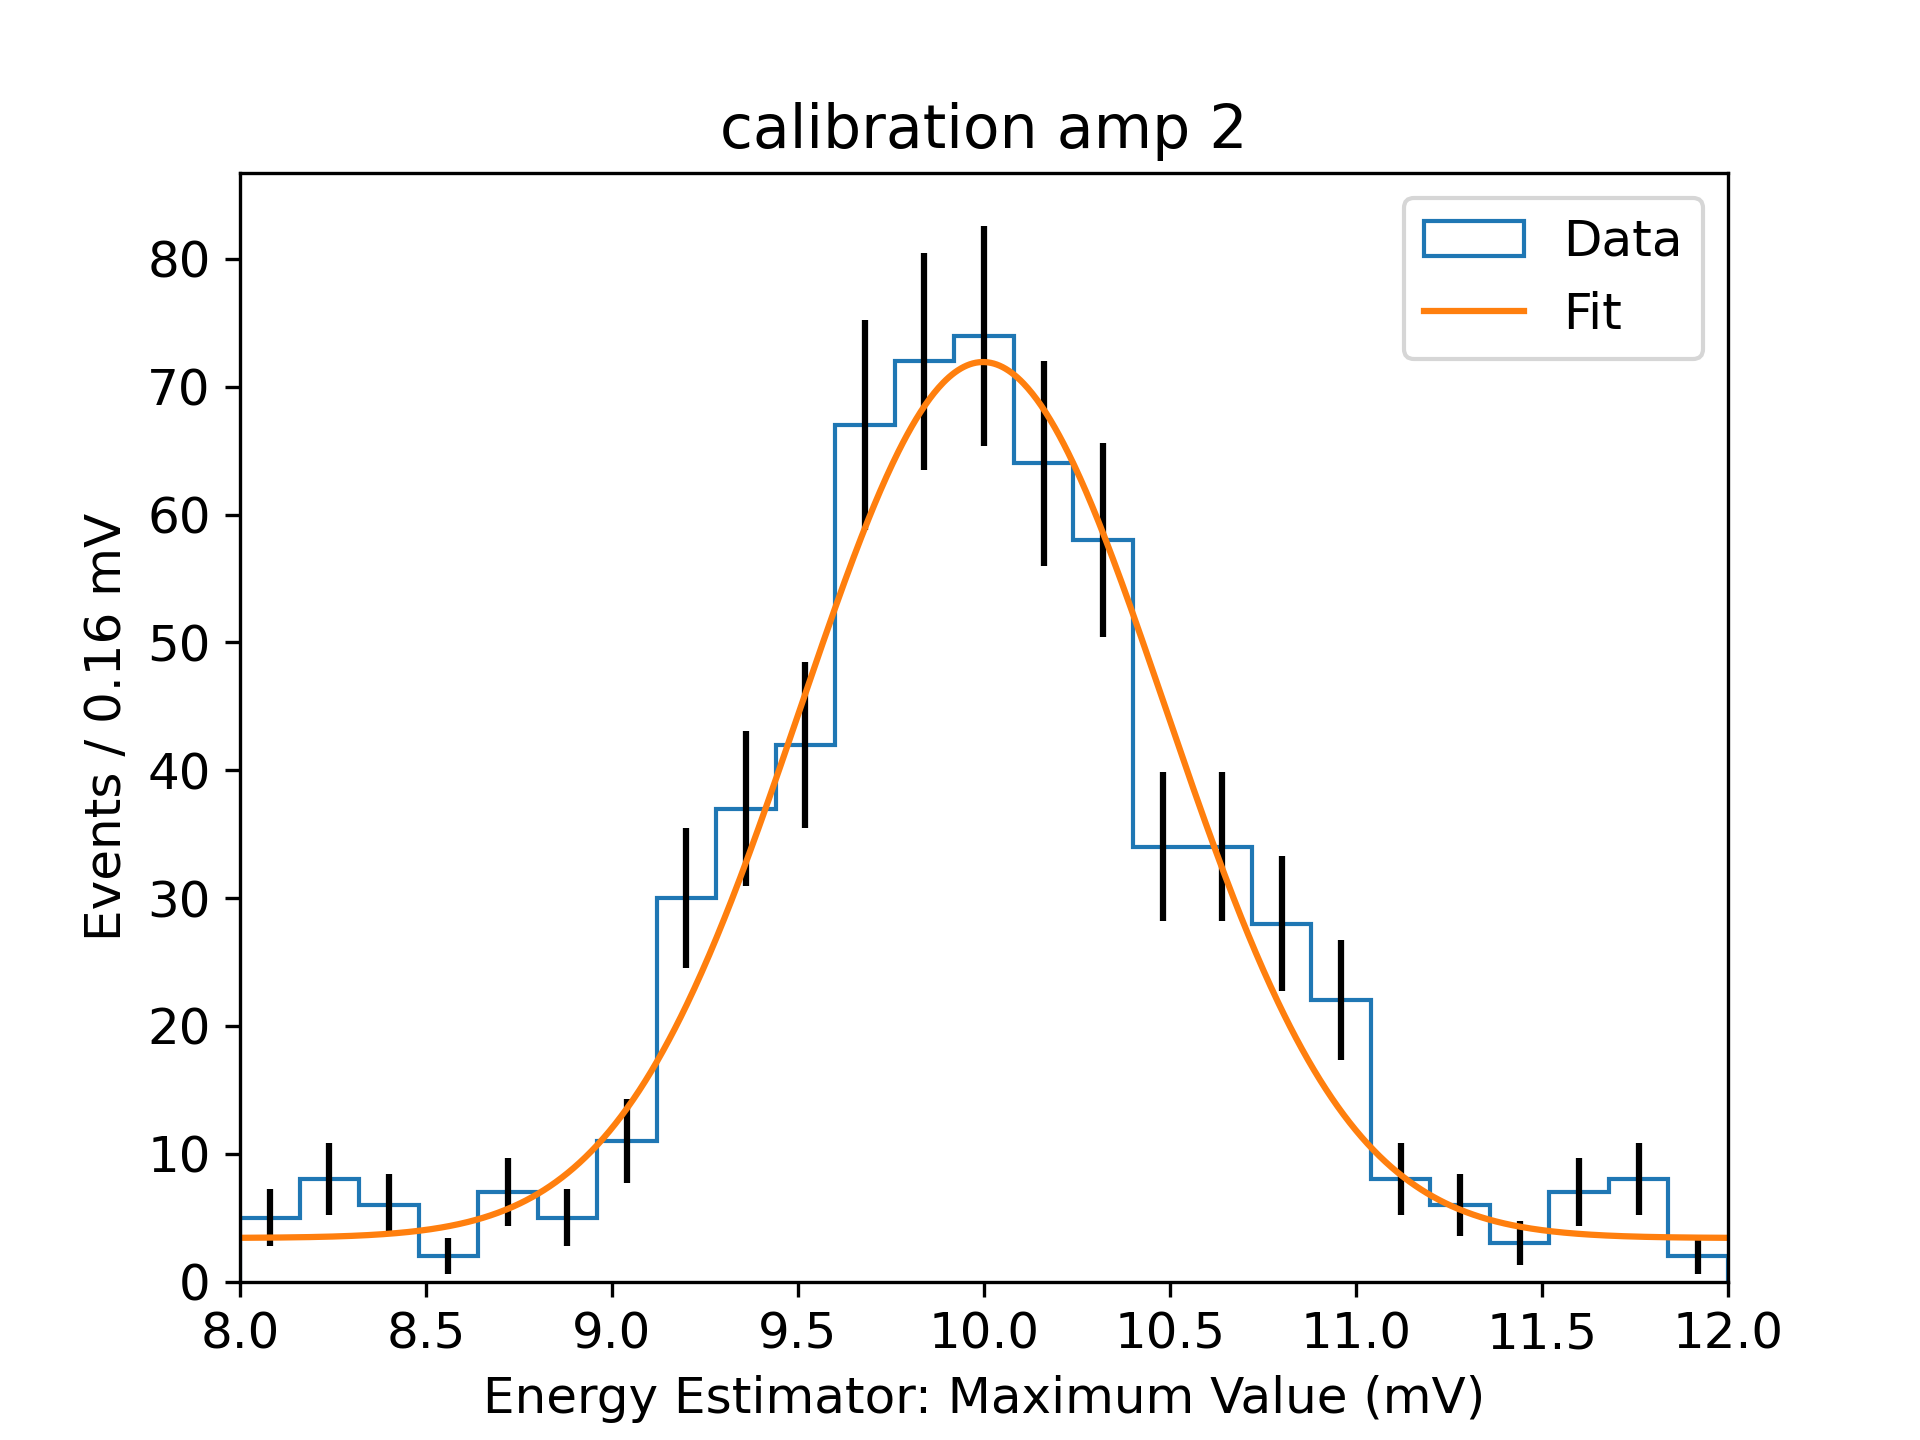
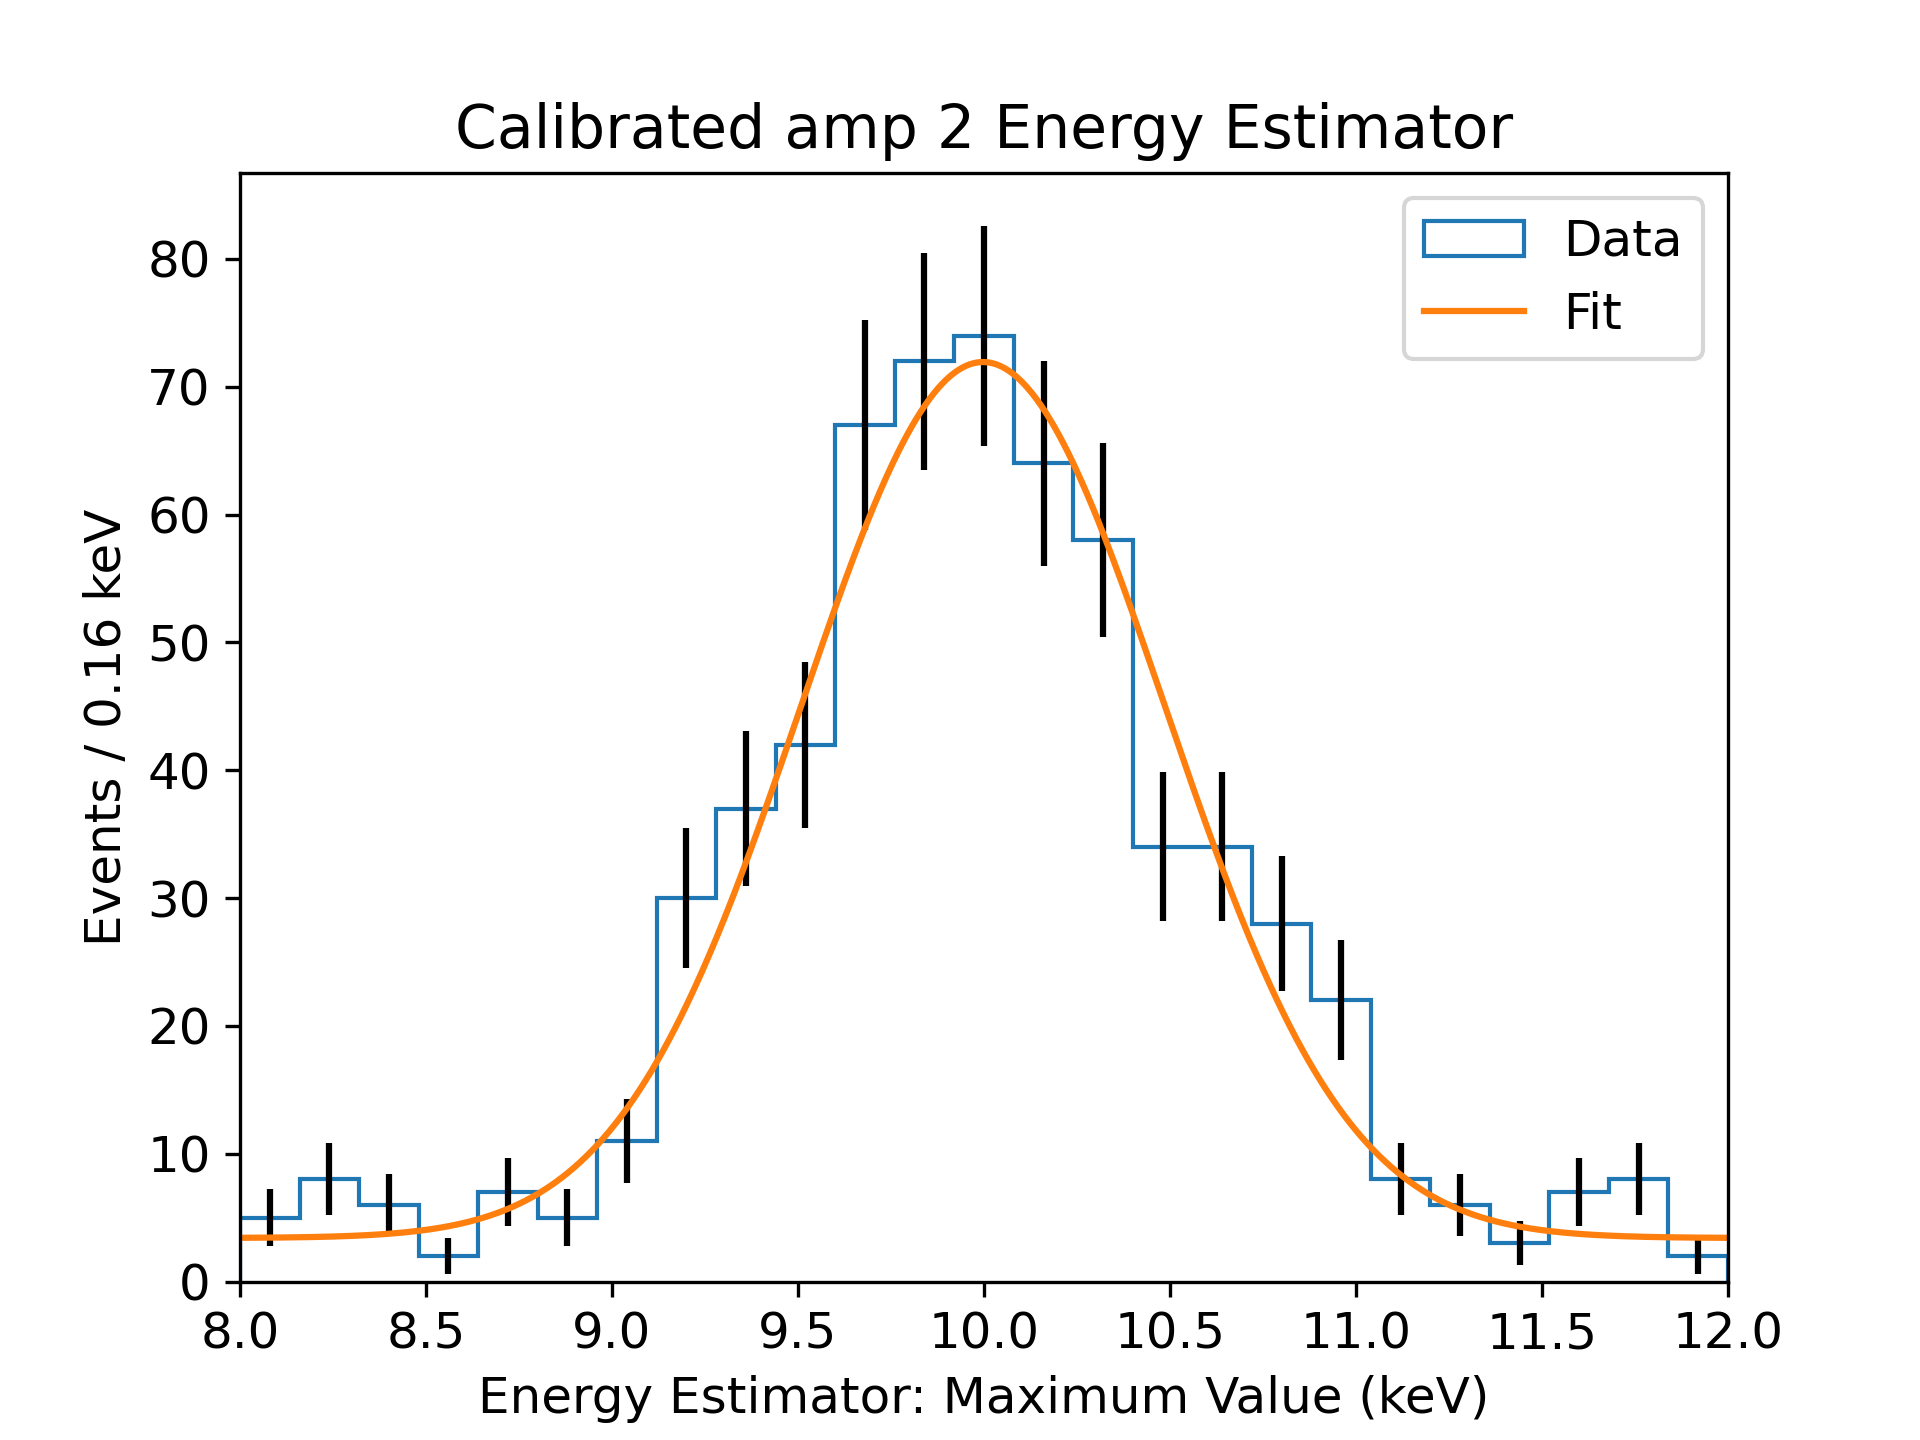
update

Changed region(s): [[0.25, 0.9375, 0.7812, 1.0], [0.25, 0.0625, 0.7812, 0.125], [0.0312, 0.3438, 0.0625, 0.6562]]

diff --git a/Data Analysis Assignment/Data_Analysis_Main.py b/Data Analysis Assignment/Data_Analysis_Main.py
@@ -102,7 +102,7 @@ def plotting(num_bins1, bin_range1, amps, p, title):
                                  histtype='step', label='Data')
     # This plots the histogram AND saves the counts and bin_edges for later use
 
-    plt.xlabel('Energy Estimator: Maximum Value (mV)')
+    plt.xlabel('Maximum Value (mV)')
     plt.ylabel('Events / %2.2f mV' % ((bin_range1[-1] - bin_range1[0]) / num_bins1));
     plt.xlim(bin_range1)
     # If the legend covers some data, increase the plt.xlim value, maybe (0,0.5)
@@ -146,7 +146,7 @@ def plotting(num_bins1, bin_range1, amps, p, title):
 
     fontsize = 12
     plt.plot(x_bestfit1, y_bestfit1, label='Fit')
-    plt.title('original '+ title)
+    plt.title('original '+ title + ' Amplitude Estimator')
     # plt.text(0.01, 140, r'$\mu$ = %3.2f mV'%(popt1[1]), fontsize=fontsize)
     # plt.text(0.01, 120, r'$\sigma$ = %3.2f mV'%(popt1[2]), fontsize=fontsize)
     # plt.text(0.01, 100, r'$\chi^2$/DOF=', fontsize=fontsize)
@@ -193,7 +193,7 @@ p_4=(100,50,150,0)        # myGauss(x, A, mean, width, base)
 num_bins_5=80
 bin_range_5=(-50, 80)
 p_5=(300,21,50,0)        # myGauss(x, A, mean, width, base)
-conv_5 = plotting(num_bins_5, bin_range_5, area3, p_5, 'amp 5')
+# conv_5 = plotting(num_bins_5, bin_range_5, area3, p_5, 'amp 5')
 
 # graph 6
 num_bins_6=80
@@ -229,7 +229,7 @@ def plotting_with_calibration(popt1, num_bins1, bin_range1, amps, p, title, coun
                                  histtype='step', label='Data')
     # This plots the histogram AND saves the counts and bin_edges for later use
 
-    plt.xlabel('Energy Estimator: Maximum Value (mV)')
+    plt.xlabel('Energy Estimator: Maximum Value (keV)')
     plt.ylabel('Events / %2.2f keV' % ((bin_range1[-1] - bin_range1[0]) / num_bins1));
     plt.xlim(bin_range1)
     # If the legend covers some data, increase the plt.xlim value, maybe (0,0.5)
@@ -273,7 +273,7 @@ def plotting_with_calibration(popt1, num_bins1, bin_range1, amps, p, title, coun
 
     fontsize = 12
     plt.plot(x_bestfit1, y_bestfit1, label='Fit')
-    plt.title('calibration ' + title)
+    plt.title('Calibrated ' + title + ' Energy Estimator')
     # plt.text(0.01, 140, r'$\mu$ = %3.2f mV'%(popt1[1]), fontsize=fontsize)
     # plt.text(0.01, 120, r'$\sigma$ = %3.2f mV'%(popt1[2]), fontsize=fontsize)
     # plt.text(0.01, 100, r'$\chi^2$/DOF=', fontsize=fontsize)
@@ -314,9 +314,9 @@ p_2_c=(50, 10, 2, 5)        # myGauss(x, A, mean, width, base)
 #                           num_bins_2_c, bin_range_2_c, amp2, p_2_c, 'amp 2', 2)
 
 # graph 3
-num_bins_3=35
-bin_range_3=(-50, 50)
-p_3=(120,0,40,0)        # myGauss(x, A, mean, width, base)
+num_bins_3=30
+bin_range_3=(-30, 30)
+p_3=(40, 17, 10,0)        # myGauss(x, A, mean, width, base)
 num_bins_3_c=50
 bin_range_3_c=(-200, 200)
 p_3_c=(1, 10, 20, 0)        # myGauss(x, A, mean, width, base)
@@ -329,9 +329,9 @@ bin_range_4=(-200, 200)
 p_4=(100,50,150,0)        # myGauss(x, A, mean, width, base)
 num_bins_4_c=40
 bin_range_4_c=(-100, 100)
-p_4_c=(150, 10, 100, 0)        # myGauss(x, A, mean, width, base)
-# plotting_with_calibration(plotting(num_bins_4, bin_range_4, area2, p_4, 'area 2'),
-#                           num_bins_4_c, bin_range_4_c, area2, p_4_c, 'area 2', 4)
+p_4_c=(140, 10, 50, 0)        # myGauss(x, A, mean, width, base)
+plotting_with_calibration(plotting(num_bins_4, bin_range_4, area2, p_4, 'area 2'),
+                          num_bins_4_c, bin_range_4_c, area2, p_4_c, 'area 2', 4)
 
 # graph 5
 num_bins_5=40
@@ -340,8 +340,8 @@ p_5=(60,15,6,0)        # myGauss(x, A, mean, width, base)
 num_bins_5_c=40
 bin_range_5_c=(2, 15)
 p_5_c=(100,10,4,0)        # myGauss(x, A, mean, width, base)
-conv_5 = plotting_with_calibration(plotting(num_bins_5, bin_range_5, area3, p_5, 'area 3'),
-                          num_bins_5_c, bin_range_5_c, area3, p_5_c, 'area 3', 5)
+# conv_5 = plotting_with_calibration(plotting(num_bins_5, bin_range_5, area3, p_5, 'area 3'),
+#                           num_bins_5_c, bin_range_5_c, area3, p_5_c, 'area 3', 5)
 
 # graph 6
 num_bins_6=40
@@ -350,8 +350,8 @@ p_6=(300,0.25,0.1,0)        # myGauss(x, A, mean, width, base)
 num_bins_6_c=45
 bin_range_6_c=(1, 19)
 p_6_c=(125,10,5,0)         # myGauss(x, A, mean, width, base)
-plotting_with_calibration(plotting(num_bins_6, bin_range_6, pulse_fit, p_6, 'pulse_fit'),
-                          num_bins_6_c, bin_range_6_c, pulse_fit, p_6_c, 'pulse_fit', 6)
+# plotting_with_calibration(plotting(num_bins_6, bin_range_6, pulse_fit, p_6, 'pulse_fit'),
+#                           num_bins_6_c, bin_range_6_c, pulse_fit, p_6_c, 'pulse_fit', 6)
 
 # sigmal: std (around 90%), mu: mean, chi2 (around 1)
 
@@ -359,73 +359,74 @@ plotting_with_calibration(plotting(num_bins_6, bin_range_6, pulse_fit, p_6, 'pul
 '''
 Part 3 
 '''
-stds = []
-for i in range(len(noise_data)):
-    stds.append(np.std(noise_data['evt_%i'%i]))
-std = np.mean(stds)
-sig = np.full(len(noise_data['evt_0']), std)
-sig = np.where(sig==0, 1, sig)
-"""
-calculating the std of the noise
-"""
-
-for ievt in range(1000):
-    current_data = signal_data['evt_%i'%ievt]
-    area3[ievt] = np.sum(current_data[1000:1100])
-    popt, pcov = curve_fit(fit_pulse, xx, current_data,
-                  sigma = sig, absolute_sigma=True)
-    pulse_fit[ievt] = popt[0]
-pulse_fit*=1000
-
-# num_bins_f = num_bins_6_c
-# bin_range_f = bin_range_6_c
-# p_f = p_6_c
-
-num_bins_f = 40
-bin_range_f = (-0.05, 0.1)
-p_f = (120, 0.01, 0.1, 0)
-
-pulse_fit *= conv_5
-
-n1, bin_edges1, _ = plt.hist(pulse_fit, bins=num_bins_f, range=bin_range_f,\
-                             color='k', histtype='step', label='Data')
-# This plots the histogram AND saves the counts and bin_edges for later use
-
-plt.xlabel('Energy Estimator: Maximum Value (mV)')
-plt.ylabel('Events / %2.2f mV'%((bin_range_f[-1]-bin_range_f[0])/num_bins_f));
-plt.xlim(bin_range_f)
-# If the legend covers some data, increase the plt.xlim value, maybe (0,0.5)
-
-bin_centers1 = 0.5*(bin_edges1[1:]+bin_edges1[:-1])
-
-sig1 = np.sqrt(n1)
-sig1=np.where(sig1==0, 1, sig1)
-# The uncertainty on 0 count is 1, not 0. Replace all 0s with 1s.
-
-plt.errorbar(bin_centers1, n1, yerr=sig1, fmt='none', c='k')
-# This adds errorbars to the histograms, where each uncertainty is sqrt(y)
-
-popt1, pcov1 = curve_fit(myGauss, bin_centers1, n1,
-             sigma = sig1, p0=p_f, absolute_sigma=True)
-
-n1_fit = myGauss(bin_centers1, *popt1)
-
-chisquared1 = np.sum( ((n1 - n1_fit)/sig1 )**2)
-dof1 = num_bins_f - len(popt1)
-
-x_bestfit1 = np.linspace(bin_edges1[0], bin_edges1[-1], 1000)
-y_bestfit1 = myGauss(x_bestfit1, *popt1)
-
-fontsize=10
-plt.plot(x_bestfit1, y_bestfit1, label='Fit')
-# plt.text(0.01, 140, r'$\mu$ = %3.2f mV'%(popt1[1]), fontsize=fontsize)
-# plt.text(0.01, 120, r'$\sigma$ = %3.2f mV'%(popt1[2]), fontsize=fontsize)
-# plt.text(0.01, 100, r'$\chi^2$/DOF=', fontsize=fontsize)
-# plt.text(0.01, 80, r'%3.2f/%i'%(chisquared1,dof1), fontsize=fontsize)
-# plt.text(0.01, 60, r'$\chi^2$ prob.= %1.1f'%(1-chi2.cdf(chisquared1,dof1)), fontsize=fontsize)
-plt.legend(loc=1)
-plt.show()
-
-print('c_', 'final testing', ' chi2: ', "{:.4f}".format(1 - chi2.cdf(chisquared1, dof1)),
-      '   sigma: ', "{:00.4f}".format(popt1[2]),
-      '   mu: ', "{:00.4f}".format(popt1[1]))
+# stds = []
+# for i in range(len(noise_data)):
+#     stds.append(np.std(noise_data['evt_%i'%i]))
+# std = np.mean(stds)
+# sig = np.full(len(noise_data['evt_0']), std)
+# sig = np.where(sig==0, 1, sig)
+# """
+# calculating the std of the noise
+# """
+#
+# for ievt in range(1000):
+#     current_data = signal_data['evt_%i'%ievt]
+#     area3[ievt] = np.sum(current_data[1000:1100])
+#     popt, pcov = curve_fit(fit_pulse, xx, current_data,
+#                   sigma = sig, absolute_sigma=True)
+#     pulse_fit[ievt] = popt[0]
+# pulse_fit*=1000
+#
+# # num_bins_f = num_bins_6_c
+# # bin_range_f = bin_range_6_c
+# # p_f = p_6_c
+#
+# num_bins_f = 40
+# bin_range_f = (-0.05, 0.1)
+# p_f = (120, 0.01, 0.1, 0)
+#
+# pulse_fit *= conv_5
+#
+# n1, bin_edges1, _ = plt.hist(pulse_fit, bins=num_bins_f, range=bin_range_f,\
+#                              color='k', histtype='step', label='Data')
+# # This plots the histogram AND saves the counts and bin_edges for later use
+#
+# plt.xlabel('Energy Estimator: Maximum Value (keV)')
+# plt.ylabel('Events / %2.2f keV'%((bin_range_f[-1]-bin_range_f[0])/num_bins_f));
+# plt.xlim(bin_range_f)
+# # If the legend covers some data, increase the plt.xlim value, maybe (0,0.5)
+#
+# bin_centers1 = 0.5*(bin_edges1[1:]+bin_edges1[:-1])
+#
+# sig1 = np.sqrt(n1)
+# sig1=np.where(sig1==0, 1, sig1)
+# # The uncertainty on 0 count is 1, not 0. Replace all 0s with 1s.
+#
+# plt.errorbar(bin_centers1, n1, yerr=sig1, fmt='none', c='k')
+# # This adds errorbars to the histograms, where each uncertainty is sqrt(y)
+#
+# popt1, pcov1 = curve_fit(myGauss, bin_centers1, n1,
+#              sigma = sig1, p0=p_f, absolute_sigma=True)
+#
+# n1_fit = myGauss(bin_centers1, *popt1)
+#
+# chisquared1 = np.sum( ((n1 - n1_fit)/sig1 )**2)
+# dof1 = num_bins_f - len(popt1)
+#
+# x_bestfit1 = np.linspace(bin_edges1[0], bin_edges1[-1], 1000)
+# y_bestfit1 = myGauss(x_bestfit1, *popt1)
+#
+# fontsize=10
+# plt.plot(x_bestfit1, y_bestfit1, label='Fit')
+# # plt.text(0.01, 140, r'$\mu$ = %3.2f mV'%(popt1[1]), fontsize=fontsize)
+# # plt.text(0.01, 120, r'$\sigma$ = %3.2f mV'%(popt1[2]), fontsize=fontsize)
+# # plt.text(0.01, 100, r'$\chi^2$/DOF=', fontsize=fontsize)
+# # plt.text(0.01, 80, r'%3.2f/%i'%(chisquared1,dof1), fontsize=fontsize)
+# # plt.text(0.01, 60, r'$\chi^2$ prob.= %1.1f'%(1-chi2.cdf(chisquared1,dof1)), fontsize=fontsize)
+# plt.legend(loc=1)
+# plt.title('Final Signal Encoded')
+# plt.show()
+#
+# print('c_', 'final testing', ' chi2: ', "{:.4f}".format(1 - chi2.cdf(chisquared1, dof1)),
+#       '   sigma: ', "{:00.4f}".format(popt1[2]),
+#       '   mu: ', "{:00.4f}".format(popt1[1]))
